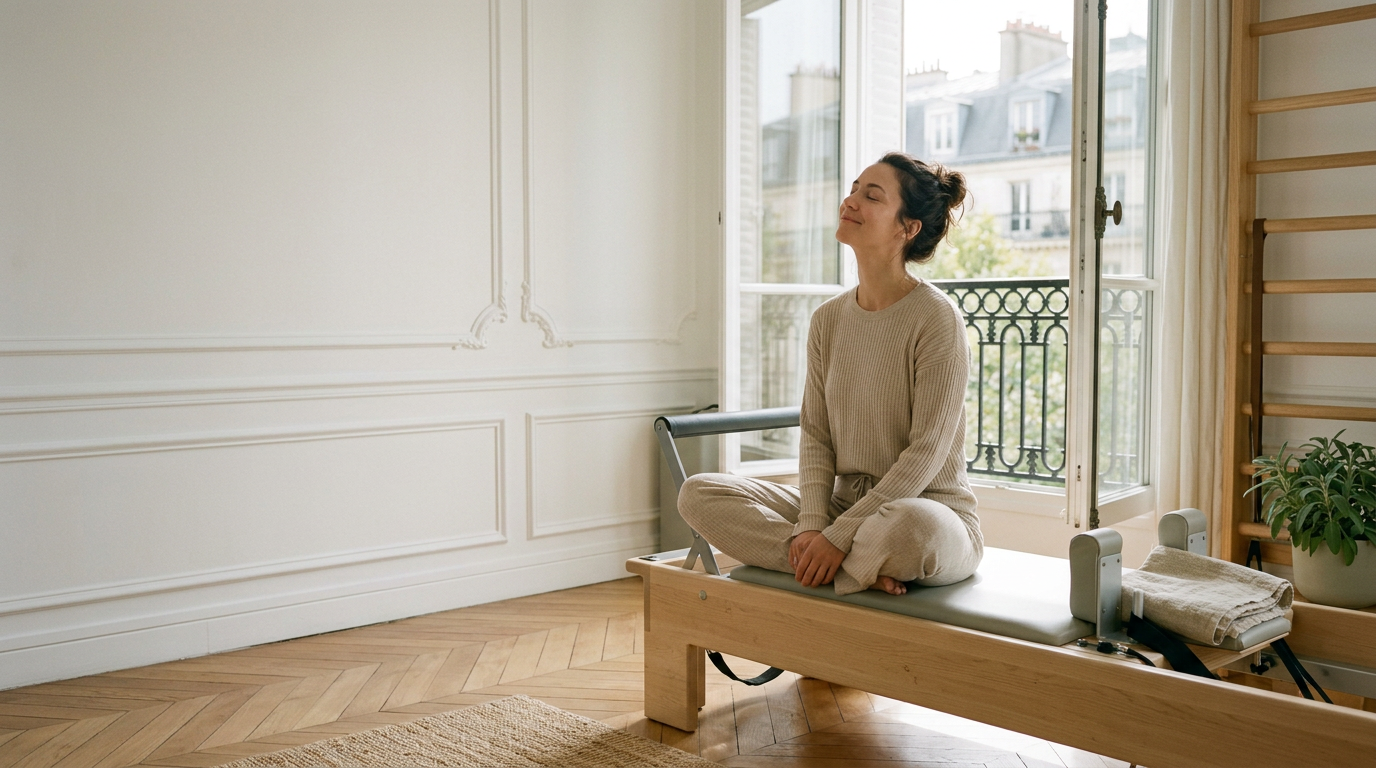
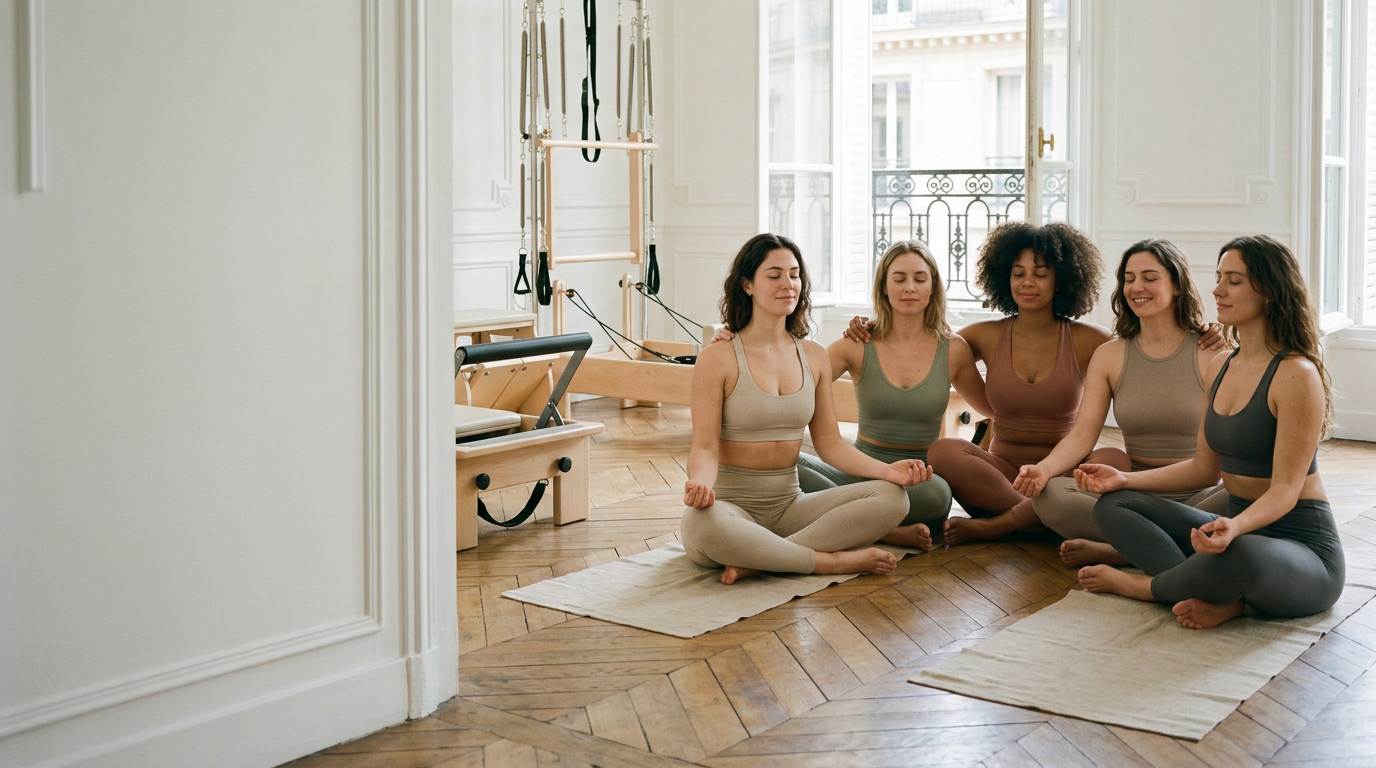
Hale: posture-cue photo for intro, friends meditating for closing scene
Claude-Session: https://claude.ai/code/session_01UTJuAjWUwzzxbHTx65gk4g

diff --git a/projects/pilates-studio/index.html b/projects/pilates-studio/index.html
@@ -274,7 +274,7 @@ footer .eyebrow { margin-bottom: 12px; }
         <li><b>1:1</b><span>private sessions available</span></li>
       </ul>
     </div>
-    <figure class="photo settle reveal"><img src="img/detail-hand-1600.webp" srcset="img/detail-hand-900.webp 900w, img/detail-hand-1600.webp 1600w, img/detail-hand.webp 1792w" sizes="(max-width: 900px) 100vw, 40vw" width="1792" height="2400" decoding="async" alt="A hand resting in a leather reformer strap" loading="lazy" style="object-position:50% 68%"></figure>
+    <figure class="photo settle reveal"><img src="img/detail-hand-1600.webp" srcset="img/detail-hand-900.webp 900w, img/detail-hand-1600.webp 1600w, img/detail-hand.webp 1792w" sizes="(max-width: 900px) 100vw, 40vw" width="1792" height="2400" decoding="async" alt="A teacher lightly cueing a client's posture on the reformer" loading="lazy" style="object-position:50% 45%"></figure>
   </section>
 
   <figure class="space settle">
@@ -359,7 +359,7 @@ footer .eyebrow { margin-bottom: 12px; }
   </section>
 
   <section class="final" aria-labelledby="final-title">
-    <img src="img/after-1600.webp" srcset="img/after-900.webp 900w, img/after-1600.webp 1600w, img/after.webp 2752w" sizes="100vw" width="2752" height="1536" decoding="async" alt="A woman resting on a reformer by an open window after class" loading="lazy">
+    <img src="img/after-1600.webp" srcset="img/after-900.webp 900w, img/after-1600.webp 1600w, img/after.webp 2752w" sizes="100vw" width="2752" height="1536" decoding="async" alt="Five friends meditating on the studio floor after class" loading="lazy">
     <div class="final-inner wrap stack reveal">
       <p class="eyebrow">Your first class</p>
       <h2 id="final-title">Come as you are. <em>Leave lighter.</em></h2>

diff --git a/skills/premium-wow-design/references/project-log.md b/skills/premium-wow-design/references/project-log.md
@@ -4,4 +4,4 @@
 
 | Проект | Шрифты | Палитра | Первый экран | Ключевые приёмы движения |
 |---|---|---|---|---|
-| Hale Pilates, Paris (2026-10) | Instrument Serif + Hanken Grotesk | овёс, лён, глина, шалфей, графит | фото на всю ширину, текст слева на светлой стене | «дыхание» кадра 8s; Inhale/Exhale; фото «выдыхают» 1.12→1 при скролле; rise текста; овсяная дымка под текстом; v2: Lenis 1.4s; слова заголовков поднимаются из маски (GSAP); студия раскрывается через арочное окно (clip-path, pin); цитата заполняется по словам при скролле; v3: тёплый свет следует за курсором, кадр смещается за мышью (глубина), при уходе со скролла кадр «выдыхает» (yPercent+scale), текст растворяется; расписание с записью; финал: девушка после занятия у открытого окна (пар над чашкой убран по просьбе) |
+| Hale Pilates, Paris (2026-10) | Instrument Serif + Hanken Grotesk | овёс, лён, глина, шалфей, графит | фото на всю ширину, текст слева на светлой стене | «дыхание» кадра 8s; Inhale/Exhale; фото «выдыхают» 1.12→1 при скролле; rise текста; овсяная дымка под текстом; v2: Lenis 1.4s; слова заголовков поднимаются из маски (GSAP); студия раскрывается через арочное окно (clip-path, pin); цитата заполняется по словам при скролле; v3: тёплый свет следует за курсором, кадр смещается за мышью (глубина), при уходе со скролла кадр «выдыхает» (yPercent+scale), текст растворяется; расписание с записью; финал: подруги медитируют на полу после занятия; 2-й экран: тренер поправляет осанку (рука с часами заменена) |
